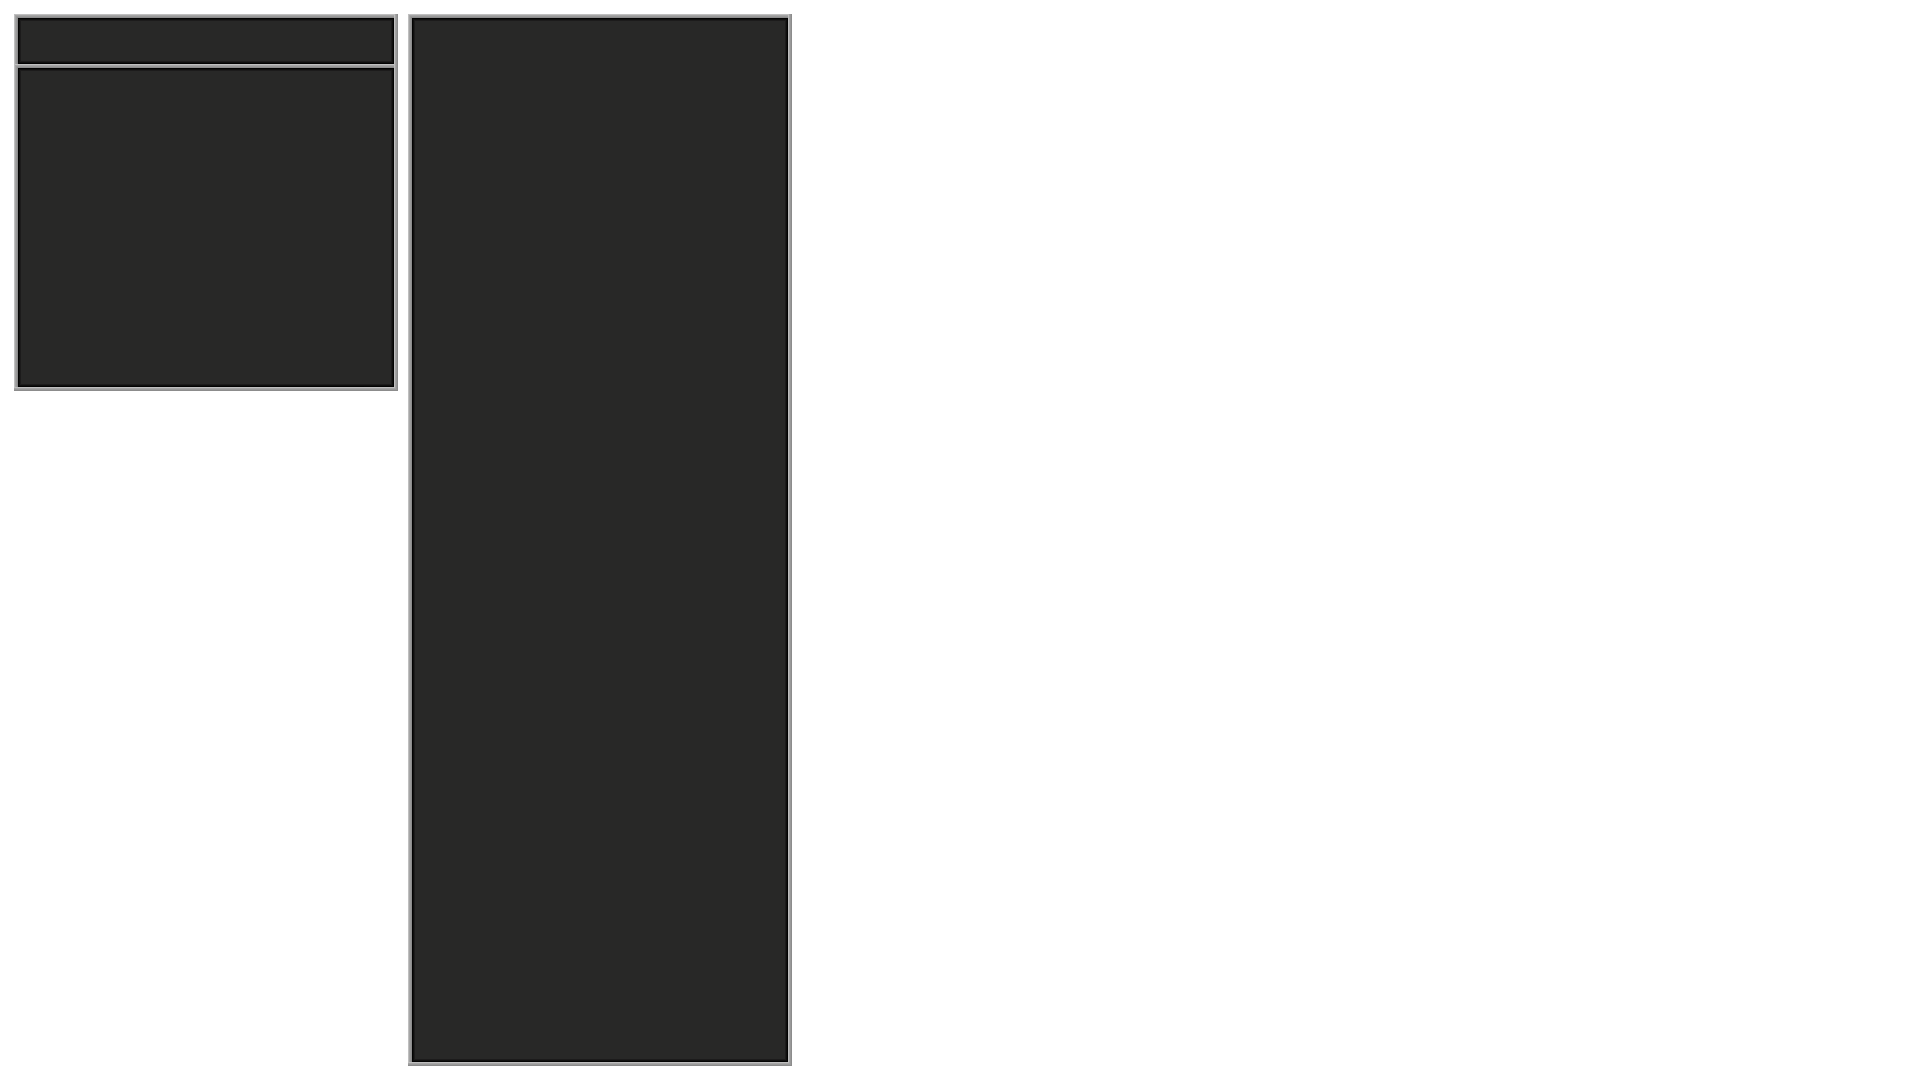
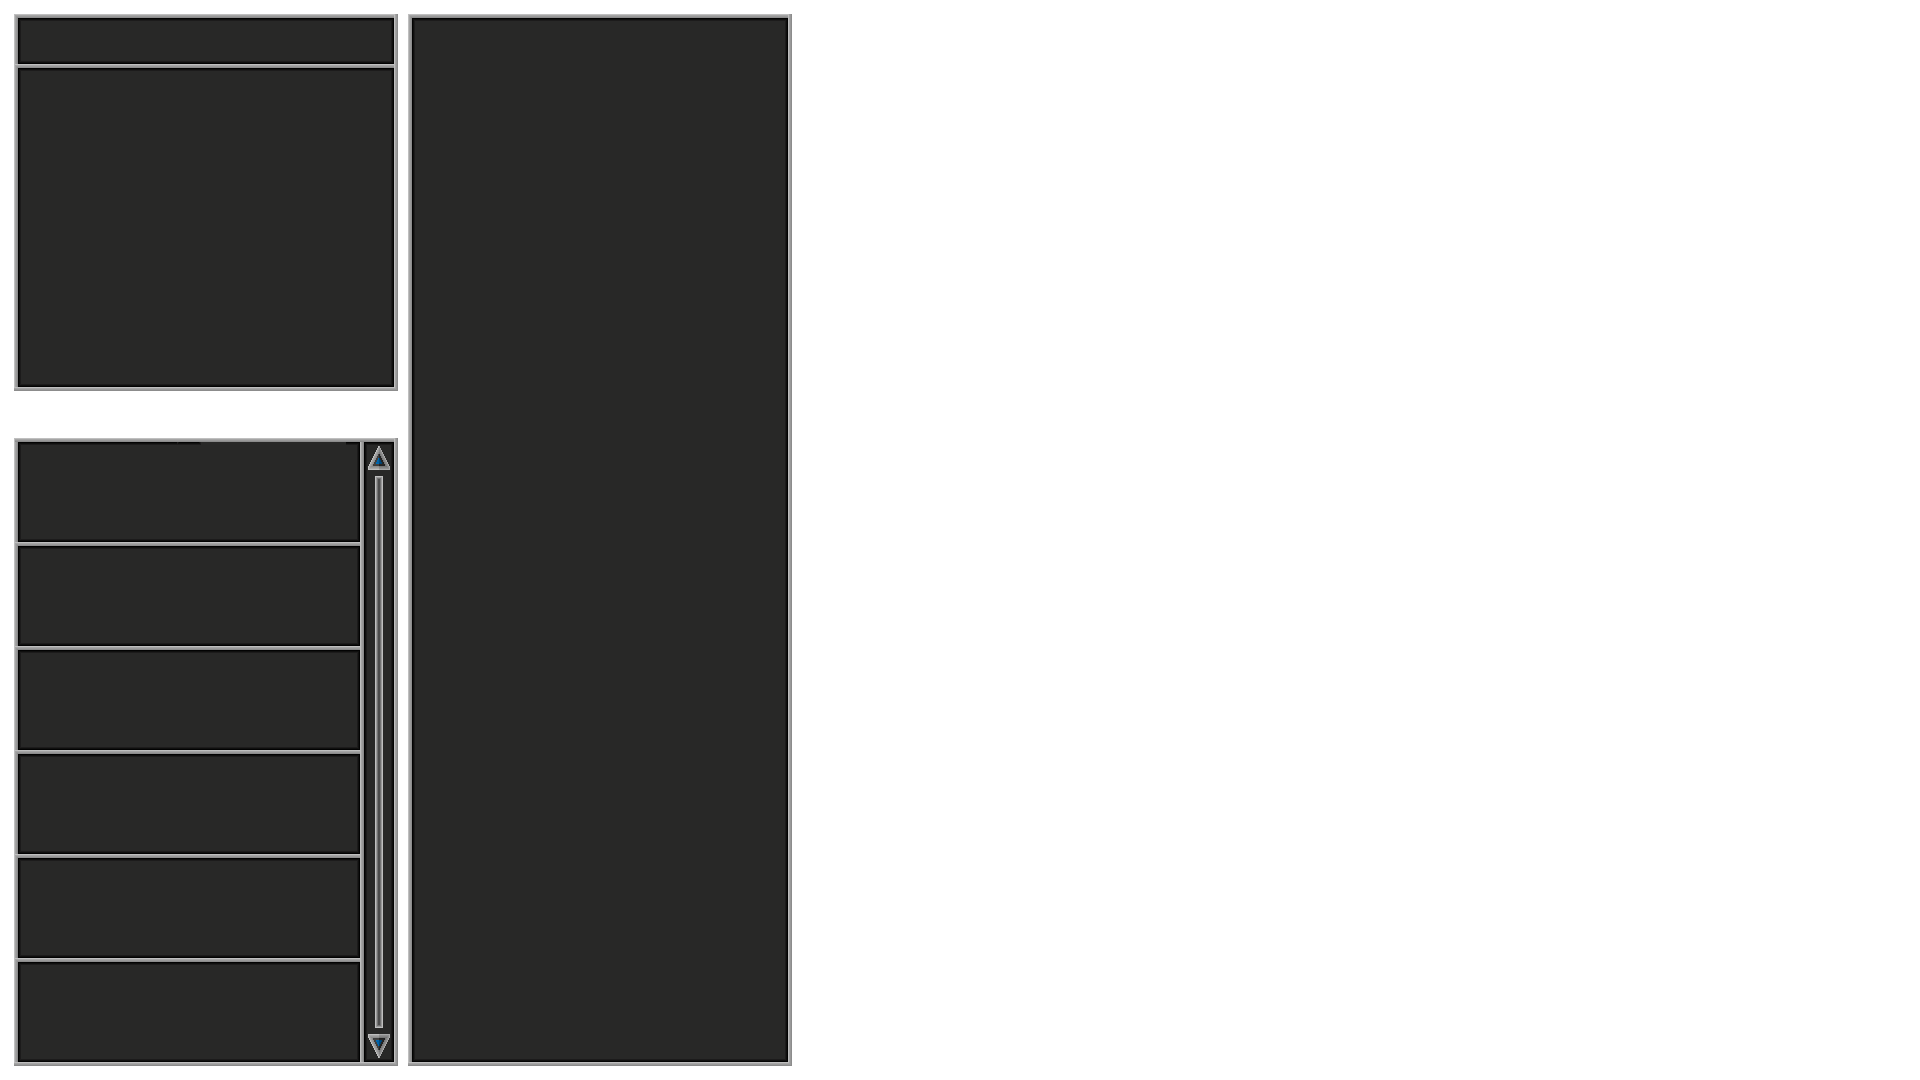
added scroll buttons and other scroll system fixes

Changed region(s): [[0.0, 0.3972, 0.2188, 1.0]]

diff --git a/cvsmm.py b/cvsmm.py
@@ -81,6 +81,10 @@ class scroll_slider(cvsmgmt.scene_object):
             self.anchor[1] = (self.scroll_menu.max_position - self.scroll_menu.position) /self.scroll_menu.max_position * self.height + self.anchor_original
             self.render_objects[0][0].coords(self.anchor[0],self.anchor[1])
             self.checkbox.update_source()
+        else:
+            self.anchor[1] = self.height + self.anchor_original
+            self.render_objects[0][0].coords(self.anchor[0], self.anchor[1])
+            self.checkbox.update_source()
 
     def handler_leftclick(self,x,y):
         config.click_selected = self
@@ -101,6 +105,22 @@ class scroll_slider_box(cvsmgmt.scene_object):
 
     def handler_leftclick(self, x,y):
         self.scroll_menu.pos((self.height - (y-self.anchor[1]))/self.height * self.scroll_menu.max_position)
+
+class scroll_slider_button(base_button):
+    def __init__(self, direction, scroll_menu, anchor, sprite_name,clicked_sprite_name, group_num):
+        base_button.__init__(self, anchor, sprite_name, clicked_sprite_name,group_num)
+
+        self.scroll_menu = scroll_menu
+        self.direction = direction # 1 or -1
+
+    def handler_leftclick(self, x, y):
+        config.click_selected = self
+        self.toggle_sprite()
+
+        self.scroll_menu.dpos(self.direction)
+
+    def handler_release(self, x, y):
+        self.toggle_sprite()
 
 class scroll_menu_box(cvsmgmt.scene_object):
     #set as same group as scroll elements
@@ -130,8 +150,8 @@ class scroll_menu_element(base_button):
             self.render_objects[0][0].switch_image(self.sprite_name)
 
 class scroll_menu(base_window):
-    def __init__(self, scene_index, anchor, num_elements, element_height, width, slider_x_offset, slider_name, group_num = config.num_scene_groups + 1, list_of_elements = None, sprite_name = None):
-        base_window.__init__(self=self, anchor=anchor, group_num = group_num, sprite_name = sprite_name)
+    def __init__(self, scene_index, anchor, num_elements, element_height, width, slider_x_offset, slider_name, group_num = config.num_scene_groups + 1, list_of_elements = None, slider_y_clip = 34, slider_y_offset = 5):
+        base_window.__init__(self=self, anchor=anchor, group_num = group_num)
 
         self.list = list_of_elements
 
@@ -142,10 +162,12 @@ class scroll_menu(base_window):
         self.position = 0
         self.max_position = 0
 
-        self.scroll_slider = scroll_slider(scroll_menu = self, group_num = group_num+1, sprite_name = slider_name, anchor = [anchor[0] + slider_x_offset, anchor[1]], height =  self.pix_height)
+        self.scroll_slider = scroll_slider(scroll_menu = self, group_num = group_num+1, sprite_name = slider_name, anchor = [anchor[0] + slider_x_offset, anchor[1] + slider_y_clip + slider_y_offset], height =  self.pix_height - slider_y_clip * 2 - slider_y_offset * 2)
         self.elements = [self.scroll_slider,
-                         scroll_slider_box(self, group_num, [anchor[0] + slider_x_offset, anchor[1]], self.pix_height, self.scroll_slider.render_objects[0][0].width),
-                         scroll_menu_box(self, group_num, anchor, self.pix_height, width)]
+                         scroll_slider_box(self, group_num, [anchor[0] + slider_x_offset, anchor[1] + slider_y_clip + slider_y_offset], self.pix_height - slider_y_clip * 2, self.scroll_slider.render_objects[0][0].width),
+                         scroll_menu_box(self, group_num, anchor, self.pix_height, width),
+                         scroll_slider_button(-1, self, [anchor[0] + slider_x_offset, anchor[1] + self.pix_height - slider_y_clip - slider_y_offset], "scroll_button_up", "scroll_button_up_c", group_num),
+                         scroll_slider_button(1, self, [anchor[0] + slider_x_offset, anchor[1] + slider_y_offset], "scroll_button_down", "scroll_button_down_c",group_num)]
 
         self.scene_index = scene_index
         if(scene_index != None):
@@ -156,7 +178,7 @@ class scroll_menu(base_window):
     def populate(self, list_of_elements = None):
         if(list_of_elements != None):
             self.list = list_of_elements
-        self.max_position = len(self.list) - self.num_elements
+        self.max_position = max(len(self.list) - self.num_elements, 0)
         self.position = 0
 
     def pos(self, p):
@@ -188,7 +210,7 @@ class scroll_menu(base_window):
                 self.list[i + int(self.position)].add_to_scene()
 
     def add_to_scene(self):
-        for i in range(0, 3):
+        for i in range(0, 5):
             self.elements[i].add_to_scene()
 
         self.populate()
@@ -376,7 +398,8 @@ class play_saves_element(scroll_menu_element):
         self.scroll_menu = scroll_menu
 
         self.save = save
-        self.render_objects[0].append(cvsmr.label_object(save.name + "\n\n" + str(save.month) + " " + str(save.day) + ", " + str(save.year) ,[0,0],group_num+1, anchor_offset = [5,5]))
+        self.render_objects[0].append(cvsmr.label_object(save.name,[0,0],group_num+1, anchor_offset = [10,80]))
+        self.render_objects[0].append(cvsmr.label_object(str(save.month) + " " + str(save.day) + ", " + str(save.year),[0, 0], group_num + 1, anchor_offset = [10,10]))
 
     def handler_leftclick(self, x, y):
         self.save.set()
@@ -389,7 +412,7 @@ class play_saves_element(scroll_menu_element):
 
 class play_saves(scroll_menu):
     def __init__(self):
-        scroll_menu.__init__(self, None,[20,20],6,104,342,350,"scroll_slider", config.num_scene_groups, sprite_name = "play_menu_saves")
+        scroll_menu.__init__(self, None,[15,20],6,104,342,350,"scroll_slider", config.num_scene_groups)
 
         self.list = []
         for i in range(0, len(config.saves)):
@@ -402,8 +425,8 @@ class play_scenarios_element(scroll_menu_element):
         self.scroll_menu = scroll_menu
 
         self.scenario = scenario
-        self.render_objects[0].append(cvsmr.label_object(scenario.name ,[0,0],group_num+1, anchor_offset = [5,60]))
-        self.render_objects[0].append(cvsmr.label_object(str(scenario.month) + " " + str(scenario.day) + ", " + str(scenario.year), [0, 0], group_num + 1, anchor_offset=[5, 5]))
+        self.render_objects[0].append(cvsmr.label_object(scenario.name ,[0,0],group_num+1, anchor_offset = [10,80]))
+        self.render_objects[0].append(cvsmr.label_object(str(scenario.month) + " " + str(scenario.day) + ", " + str(scenario.year), [0, 0], group_num + 1, anchor_offset=[10, 10]))
 
     def handler_leftclick(self, x, y):
         self.scenario.set()
@@ -416,12 +439,11 @@ class play_scenarios_element(scroll_menu_element):
 
 class play_scenarios(scroll_menu):
     def __init__(self):
-        scroll_menu.__init__(self, None,[20,20],6,104,342,350,"scroll_slider", config.num_scene_groups, sprite_name = "play_menu_scenarios")
+        scroll_menu.__init__(self, None,[18,15],6,104,342,350,"scroll_slider", config.num_scene_groups+1)
 
         self.list = []
         for i in range(0, len(config.scenarios)):
             self.list.append(play_scenarios_element(self, config.scenarios[i], self.group_num))
-
 
 class play_menu(base_window):
     def __init__(self):

diff --git a/cvsmr.py b/cvsmr.py
@@ -365,6 +365,8 @@ def texture_groups_init():
 def sprite_texture_init():
     image_init("ocean")
     image_init("scroll_slider")
+    image_init("scroll_button_up", "b")
+    image_init("scroll_button_down", "b")
 
     image_init("main_menu")
     image_init("main_menu_play", "b")
